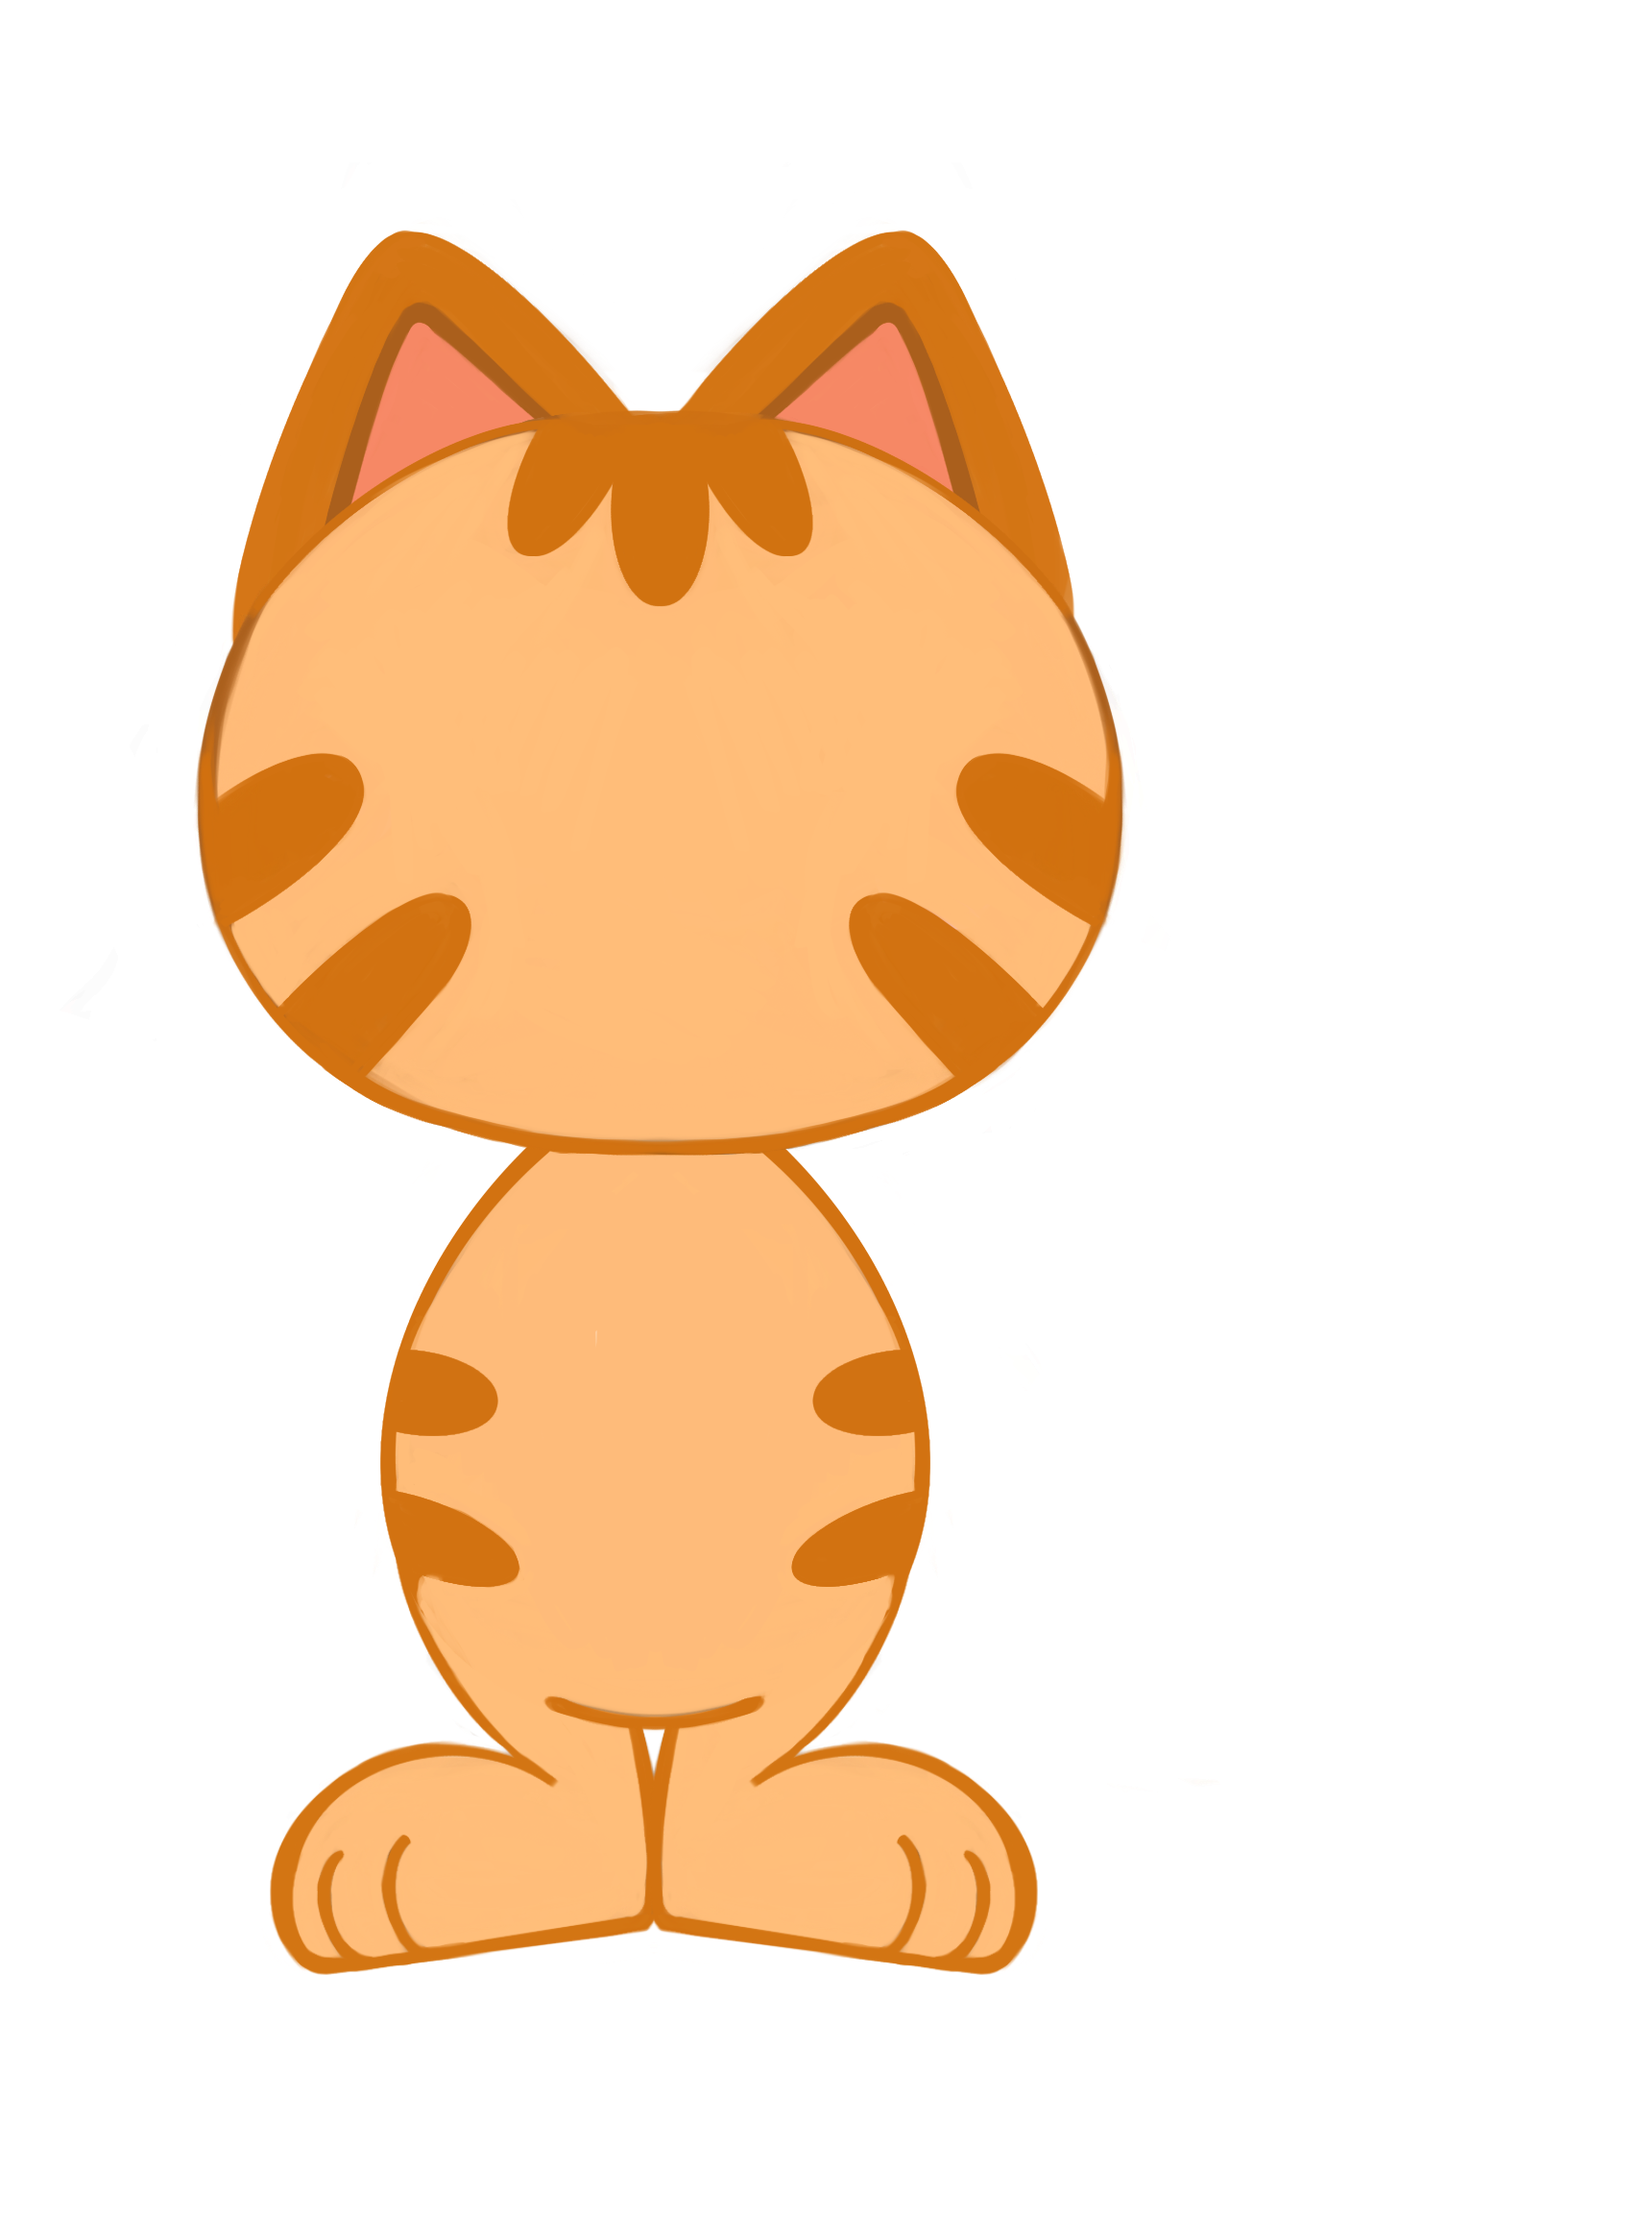
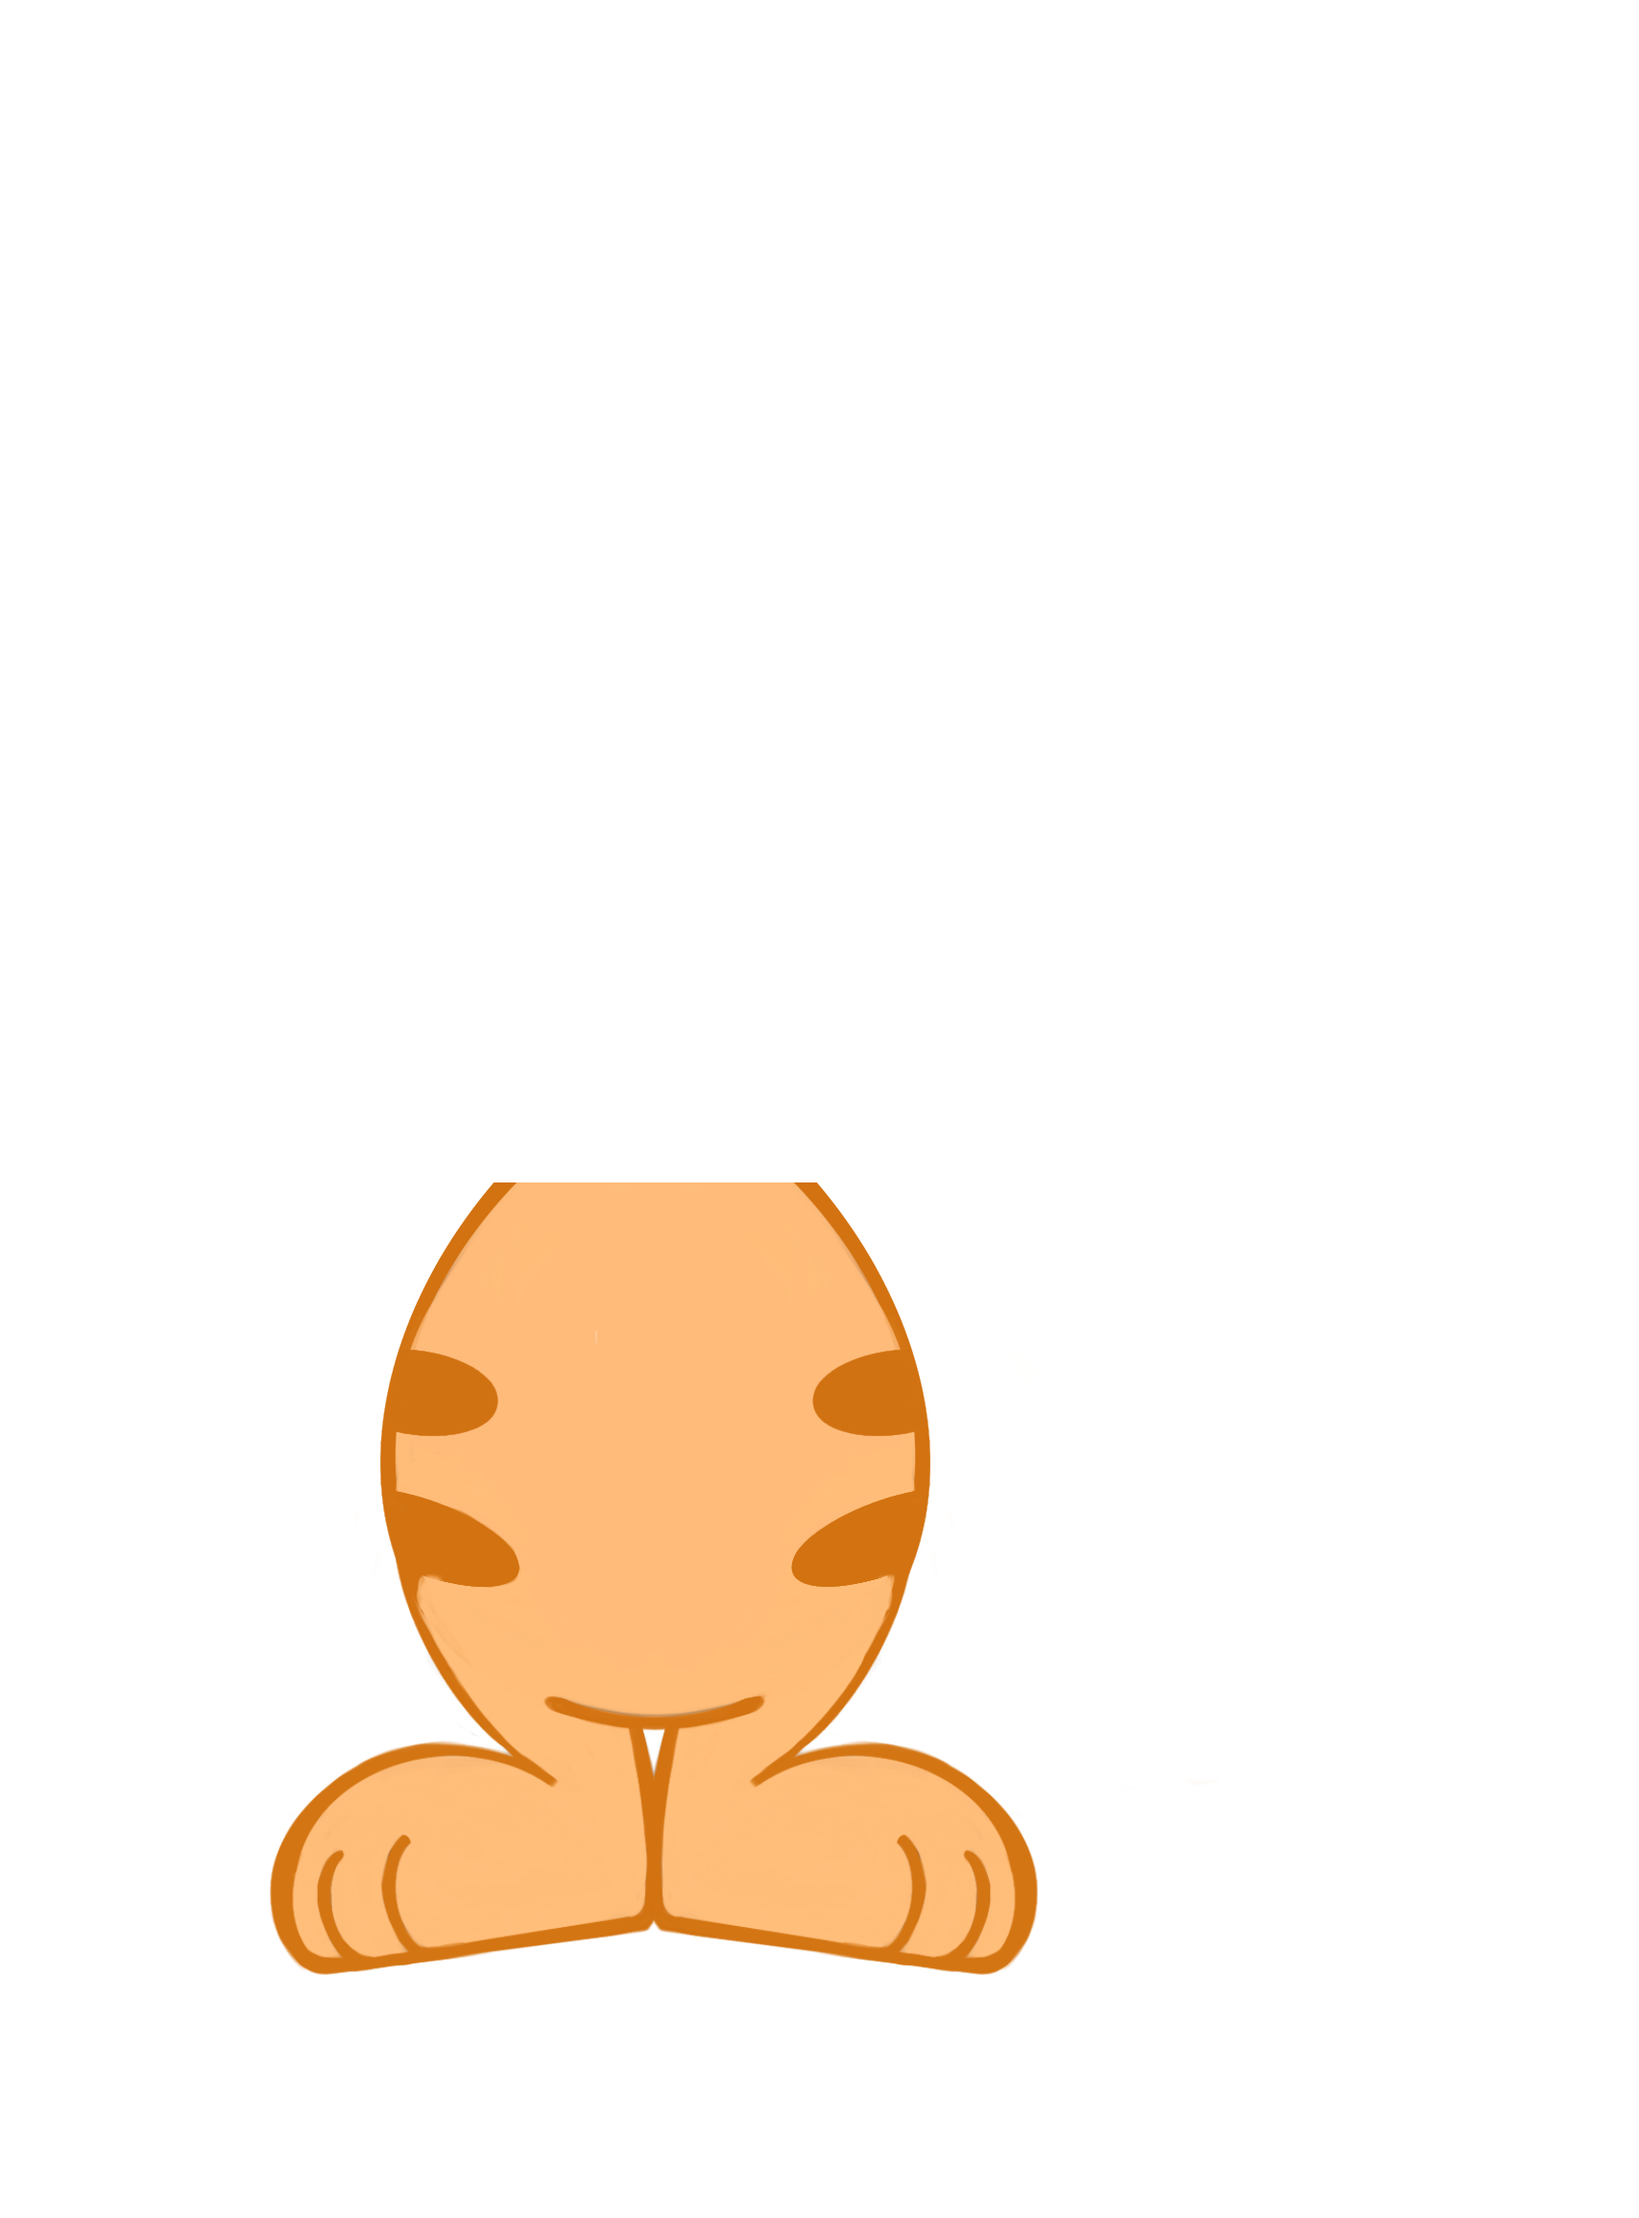
feat(mobile/pet-body): split teen and adult body art into head and body layers, add dog teen/adult assets

Changed region(s): [[0.0931, 0.0935, 0.6831, 0.5301]]

diff --git a/mobile/components/pet/petAssets.ts b/mobile/components/pet/petAssets.ts
@@ -1,12 +1,13 @@
 import type { ImageSourcePropType } from "react-native";
 import { ECONOMY } from "../../data/economy";
 
-export type PetSpecies = "cat";
+export type PetSpecies = "cat" | "dog";
 export type PetAgeStage = "mini" | "teen" | "adult";
 export type MouthKey = "happy" | "neutral" | "sad";
 
 export type PetAssetSet = {
   body: ImageSourcePropType;
+  head?: ImageSourcePropType;
   tail: ImageSourcePropType;
   armLeft: ImageSourcePropType;
   armRight: ImageSourcePropType;
@@ -59,6 +60,7 @@ const CAT_MINI: PetAssetSet = {
 
 const CAT_TEEN: PetAssetSet = {
   body: require("../../assets/pets/cat/teen/body.png"),
+  head: require("../../assets/pets/cat/teen/head.png"),
   tail: require("../../assets/pets/cat/teen/tail.png"),
   armLeft: require("../../assets/pets/cat/teen/arm-left.png"),
   armRight: require("../../assets/pets/cat/teen/arm-right.png"),
@@ -84,6 +86,7 @@ const CAT_TEEN: PetAssetSet = {
 
 const CAT_ADULT: PetAssetSet = {
   body: require("../../assets/pets/cat/adult/body.png"),
+  head: require("../../assets/pets/cat/adult/head.png"),
   tail: require("../../assets/pets/cat/adult/tail.png"),
   armLeft: require("../../assets/pets/cat/adult/arm-left.png"),
   armRight: require("../../assets/pets/cat/adult/arm-right.png"),
@@ -108,11 +111,68 @@ const CAT_ADULT: PetAssetSet = {
   bodyWearHeight: 0.16,
 };
 
-export const PET_ASSETS: Record<PetSpecies, Record<PetAgeStage, PetAssetSet>> = {
+const DOG_TEEN: PetAssetSet = {
+  body: require("../../assets/pets/dog/teen/body.png"),
+  head: require("../../assets/pets/dog/teen/head.png"),
+  tail: require("../../assets/pets/dog/teen/tail.png"),
+  armLeft: require("../../assets/pets/dog/teen/arm-left.png"),
+  armRight: require("../../assets/pets/dog/teen/arm-right.png"),
+  belly: require("../../assets/pets/dog/teen/belly.png"),
+  eyesOpen: require("../../assets/pets/dog/teen/eyes-open.png"),
+  eyesClosed: require("../../assets/pets/dog/teen/eyes-closed.png"),
+  mouth: {
+    happy: require("../../assets/pets/dog/teen/mouth-happy.png"),
+    neutral: require("../../assets/pets/dog/teen/mouth-neutural.png"),
+    sad: require("../../assets/pets/dog/teen/mouth-sad.png"),
+  },
+  aspect: 2309 / 1707,
+  coreLeft: 41 / 1707,
+  coreWidth: 1307 / 1707,
+  armLeftOrigin: "42% 49%",
+  armRightOrigin: "38% 49%",
+  tailOrigin: "53% 87%",
+  bodyWearLeft: 0.32,
+  bodyWearTop: 0.70,
+  bodyWearWidth: 0.36,
+  bodyWearHeight: 0.16,
+};
+
+const DOG_ADULT: PetAssetSet = {
+  body: require("../../assets/pets/dog/adult/body.png"),
+  head: require("../../assets/pets/dog/adult/head.png"),
+  tail: require("../../assets/pets/dog/adult/tail.png"),
+  armLeft: require("../../assets/pets/dog/adult/arm-left.png"),
+  armRight: require("../../assets/pets/dog/adult/arm-right.png"),
+  belly: require("../../assets/pets/dog/adult/belly.png"),
+  eyesOpen: require("../../assets/pets/dog/adult/eyes-open.png"),
+  eyesClosed: require("../../assets/pets/dog/adult/eyes-closed.png"),
+  mouth: {
+    happy: require("../../assets/pets/dog/adult/mouth-happy.png"),
+    neutral: require("../../assets/pets/dog/adult/mouth-neutural.png"),
+    sad: require("../../assets/pets/dog/adult/mouth-sad.png"),
+  },
+  aspect: 2309 / 1707,
+  coreLeft: 27 / 1707,
+  coreWidth: 1321 / 1707,
+  armLeftOrigin: "37% 48%",
+  armRightOrigin: "43% 48%",
+  tailOrigin: "53% 87%",
+  armsUnderBody: true,
+  bodyWearLeft: 0.32,
+  bodyWearTop: 0.70,
+  bodyWearWidth: 0.36,
+  bodyWearHeight: 0.16,
+};
+
+export const PET_ASSETS: Record<PetSpecies, Partial<Record<PetAgeStage, PetAssetSet>>> = {
   cat: {
     mini: CAT_MINI,
     teen: CAT_TEEN,
     adult: CAT_ADULT,
+  },
+  dog: {
+    teen: DOG_TEEN,
+    adult: DOG_ADULT,
   },
 };
 

diff --git a/mobile/components/pet/PetMini.tsx b/mobile/components/pet/PetMini.tsx
@@ -9,7 +9,7 @@ import Animated, {
   withTiming,
 } from "react-native-reanimated";
 import type { ImageSourcePropType } from "react-native";
-import { getPetStage, MouthKey, PET_ASSETS, PetSpecies } from "./petAssets";
+import { getPetStage, MouthKey, PET_ASSETS, PetAssetSet, PetSpecies } from "./petAssets";
 import { usePet } from "../../store/pet";
 
 type OutfitLayers = {
@@ -83,8 +83,13 @@ export function PetMini({
 }: PetMiniProps) {
   const xp = usePet((s) => s.xp);
   const stage = getPetStage(xp);
-  const assets = PET_ASSETS[species][stage];
+  const speciesAssets = PET_ASSETS[species];
+  const assets = (speciesAssets[stage] ??
+    speciesAssets.adult ??
+    speciesAssets.teen ??
+    speciesAssets.mini) as PetAssetSet;
   const { width } = useWindowDimensions();
+
   const w = (width * widthPercent) / 100;
   const h = w * assets.aspect;
   const coreW = w * assets.coreWidth;
@@ -200,6 +205,7 @@ export function PetMini({
             <Image source={outfit.base} style={styles.layer} resizeMode="contain" />
           </>
         )}
+        {assets.head && <Image source={assets.head} style={styles.layer} resizeMode="contain" />}
         <Image source={showOpenEyes ? assets.eyesOpen : assets.eyesClosed} style={styles.layer} resizeMode="contain" />
         <Image source={assets.mouth[mouth]} style={styles.layer} resizeMode="contain" />
         {headWear && <Image source={headWear} style={styles.layer} resizeMode="contain" />}

diff --git a/mobile/app/onboarding/species.tsx b/mobile/app/onboarding/species.tsx
@@ -102,7 +102,7 @@ export default function ChooseSpeciesScreen() {
   const coinTop = height * COIN_TOP;
 
   const catW = (width * CAT_WIDTH) / 100;
-  const catH = catW * PET_ASSETS.cat.mini.aspect;
+  const catH = catW * PET_ASSETS.cat.mini!.aspect;
   const catTop = coinTop + coinH * COIN_SURFACE - catH * CAT_FEET;
 
   const arrowsTop = coinTop - coinH * 0.2;
